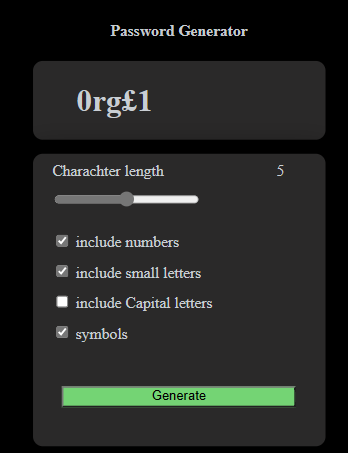
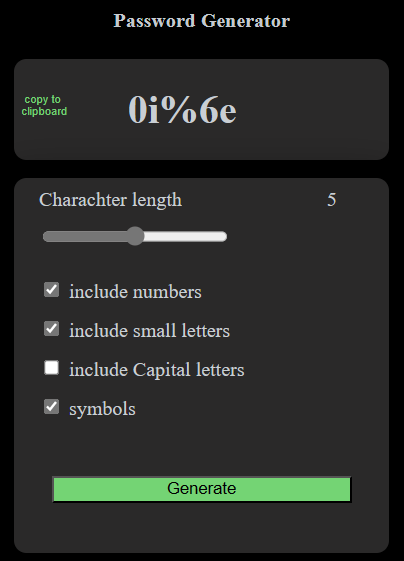
Updated descriptions of the projects.

Changed region(s): [[0.0287, 0.0, 0.977, 0.989]]

diff --git a/src/mock/data.js b/src/mock/data.js
@@ -33,7 +33,7 @@ export const projectsData = [
     title: 'Rahim Entertainment',
     info: 'HTML,CSS3,Javascript and React',
     info2:
-      'To build the website I have used React libraries, react router,context API and  data.jason file. ',
+      'This website enables the user to filter between movies,Tv shows and bookmarked contents.',
     url: '',
     repo: 'https://github.com/abdirahimAli/Rahim-Entertainment', // if no repo, the button will not show up
   },
@@ -42,7 +42,8 @@ export const projectsData = [
     img: 'Dictionary-img.png',
     title: 'Dirctionary app',
     info: 'HTML,CSS3,Javascript',
-    info2: ' Built with Semantic HTML5 markup, CSS custom propertiesand and Flexbox',
+    info2:
+      'This app is utilising an api which makes it able to search for user inputed words from Oxford dictionary',
     url: 'https://dictionar-app.netlify.app/',
     repo: 'https://github.com/abdirahimAli/Dictionaryproject', // if no repo, the button will not show up
   },
@@ -51,7 +52,8 @@ export const projectsData = [
     img: 'Password-GEN-img.png',
     title: 'Password Generator App',
     info: 'HTML,Saas/CSS3,Javascript',
-    info2: ' Built with Semantic HTML5 markup, CSS custom properties, Flexbox and grid display',
+    info2:
+      'This app generates passwords. The user is able to select the type of characters and the length of the password. Additionaly user can copy the generated password to clipboard',
     url: 'https://abdi-password-generator.netlify.app/',
     repo: 'https://github.com/abdirahimAli/Password_Generator', // if no repo, the button will not show up
   },
@@ -60,7 +62,7 @@ export const projectsData = [
     img: 'Tic-Tac-Toe_img.png',
     title: 'Password Generator App',
     info: 'HTML,Saas/CSS3,Javascript',
-    info2: ' Built with Semantic HTML5 markup, CSS custom properties, Flexbox and grid display',
+    info2: 'Simple popular game. The user is able to challenge a Computer or another player.  ',
     url: 'https://abdi-tic-tac-toe-game.netlify.app/',
     repo: 'https://github.com/abdirahimAli/Tic-tac-toe', // if no repo, the button will not show up
   },
